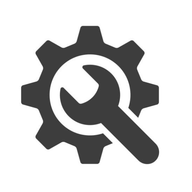
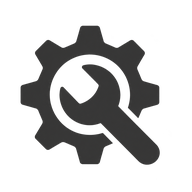
Add files via upload

diff --git a/app-views.js b/app-views.js
@@ -130,7 +130,7 @@ function dashboardView(){
  const ranges=[['30','30 dni'],['90','90 dni'],['all','Cały okres']];
  return `<div class="heading dashboard-heading"><div><h1>Dashboard</h1><p>${from?'Zgłoszenia utworzone od '+dateOnly(from+'T12:00:00'):'Podsumowanie wszystkich zgłoszeń'}</p></div><div class="dashboard-range" role="group" aria-label="Okres podsumowania">${ranges.map(([key,label])=>`<button type="button" class="${dashboardRange===key?'active':''}" data-action="dashboard-range" data-range="${key}" aria-pressed="${dashboardRange===key}">${label}</button>`).join('')}</div></div>`+
   `<section class="dashboard-section dashboard-overview" aria-label="Podsumowanie zgłoszeń">${statsView(tickets)}<div class="dashboard-insight"><div><span>Średni czas realizacji</span><strong>${m.meanHours===null?'—':m.meanHours.toLocaleString('pl-PL',{maximumFractionDigits:1})+' h'}</strong><small>${m.completed} zamkniętych · bez odrzuconych</small></div><button type="button" data-action="dashboard-waiting" aria-label="Pokaż ${m.waiting} zgłoszeń bez pierwszej reakcji"><span>Bez pierwszej reakcji</span><strong>${m.waiting}</strong><small>Ponad ${state.settings.responseHours} h od zgłoszenia w wybranym okresie →</small></button></div></section>`+
-  `<section class="dashboard-section"><div class="dashboard-section-head"><div><h2>Rozkład zgłoszeń</h2><p>Według daty utworzenia w wybranym okresie.</p></div></div><div class="chart-grid"><section class="panel"><div class="block-heading"><h3>Miasta</h3></div>${bars(tickets,'city')}</section><section class="panel"><div class="block-heading"><h3>Rodzaje usterek</h3></div>${bars(tickets,'category')}</section><section class="panel full"><div class="block-heading"><h3>Lokale i magazyny</h3></div>${bars(tickets,'location')}</section></div></section>`;
+  `<section class="dashboard-section"><div class="dashboard-section-head"><div><h2>Rozkład zgłoszeń</h2><p>Według daty utworzenia w wybranym okresie.</p></div></div><div class="chart-grid"><section class="panel"><div class="block-heading"><h3>Miasta</h3></div>${bars(tickets,'city')}</section><section class="panel"><div class="block-heading"><h3>Lokale i magazyny</h3></div>${bars(tickets,'location')}</section></div></section>`;
 }
 function adminView(){if(!isAdmin())return empty('Widok niedostępny','Wybierz profil administratora w przełączniku testowym.');
  const tabs=[['users','Użytkownicy i role'],['locations','Lokale i magazyny'],['reports','Raporty i kopia danych'],['settings','Konfiguracja']];

diff --git a/index.html b/index.html
@@ -14,9 +14,9 @@
     <meta name="apple-mobile-web-app-title" content="Serwis Lokali">
 
     <title>Serwis Lokali · Zgłoszenia usterek</title>
-    <link rel="manifest" href="./manifest.json?v=21">
-    <link rel="icon" type="image/png" href="./icon-192.png?v=6">
-    <link rel="apple-touch-icon" href="./icon-192.png?v=6">
+    <link rel="manifest" href="./manifest.json?v=22">
+    <link rel="icon" type="image/png" href="./icon-192.png?v=7">
+    <link rel="apple-touch-icon" href="./icon-192.png?v=7">
     <link rel="stylesheet" href="./styles.css?v=blue-theme1">
     <link rel="stylesheet" href="./fonts/manrope.css?v=1">
     <link rel="stylesheet" href="./ui-polish.css?v=blue-theme1">
@@ -25,14 +25,14 @@
     <link rel="stylesheet" href="./ui-schedule.css?v=blue-theme1">
     <link rel="stylesheet" href="./ui-responsive.css?v=blue-theme1">
     <link rel="stylesheet" href="./ui-login.css?v=desktop-polish2">
-    <link rel="stylesheet" href="./ui-theme.css?v=home-priority1">
+    <link rel="stylesheet" href="./ui-theme.css?v=transparent-icon1">
   </head>
 
   <body>
     <aside class="sidebar">
       <div class="brand">
         <span class="brand-mark" aria-hidden="true">
-          <img src="./icon-192.png?v=6" width="32" height="32" alt="">
+          <img src="./icon-192.png?v=7" width="32" height="32" alt="">
         </span>
         <div>Serwis Lokali<small>Zgłoszenia usterek</small></div>
       </div>
@@ -95,7 +95,7 @@
     <script src="./app-config.js?v=1"></script>
     <script src="./model.js?v=segments1"></script>
     <script src="./app-core.js?v=segments3"></script>
-    <script src="./app-views.js?v=segments3"></script>
+    <script src="./app-views.js?v=dashboard-no-category1"></script>
     <script src="./app-actions.js?v=segments1"></script>
     <script src="./app-events.js?v=segments2"></script>
     <script src="./app-data.js?v=22"></script>

diff --git a/ui-theme.css b/ui-theme.css
@@ -51,6 +51,9 @@ input[type=checkbox],input[type=radio] { accent-color:var(--accent-dark) }
   .tickets-table thead th:nth-child(3),
   .tickets-table tbody td[data-label="Usterka"],
   .tickets-table tbody td[data-label="Usterka"] .cell-main { text-align:center; }
+  .recent-panel.space-top .tickets-table td[data-label="Usterka"],
+  .recent-panel.space-top .tickets-table td[data-label="Usterka"] .cell-main,
+  .recent-panel.space-top .tickets-table td[data-label="Usterka"]::before { text-align:center; }
 }
 /* Home cards: keep priority alongside the other ticket fields when there is room. */
 @media(min-width:1001px) {
@@ -134,3 +137,13 @@ input[type=checkbox],input[type=radio] { accent-color:var(--accent-dark) }
   .toast-container { left:50%;right:auto;max-width:calc(100% - 24px);transform:translateX(-50%); }
 }
 
+
+/* Ikona na pasku bocznym bez białego kafelka. */
+.sidebar .brand-mark {
+  background:transparent;
+  border-color:transparent;
+  box-shadow:none;
+}
+.sidebar .brand-mark img {
+  filter:brightness(0) invert(1);
+}

diff --git a/README.md b/README.md
@@ -25,3 +25,9 @@ Poprawka tabeli zgłoszeń: nagłówek i wartości kolumny „Rodzaj usterki” 
 Poprawka strony głównej: w szerokich kartach zgłoszeń priorytet jest osobną kolumną w tym samym rzędzie co pozostałe dane i przyciski. Przy mniejszej szerokości pozostaje układ responsywny.
 
 Ikona aplikacji pochodzi bezpośrednio z załącznika użytkowniczki: ciemne koło zębate z kluczem na białym tle. Zachowano rysunek i przygotowano kwadratowe pliki PNG 192 i 512 px dla menu, karty przeglądarki i aplikacji instalowanej.
+
+Dashboard: usunięto wykres „Rodzaje usterek”. Pozostałe wykresy „Miasta” i „Lokale i magazyny” zajmują obie kolumny na komputerze, a na telefonie układają się jeden pod drugim.
+
+W sekcji „Starsze otwarte zgłoszenia” etykieta „Usterka” i treść kolumny są wyśrodkowane w widoku komputerowym.
+
+Ikona aplikacji ma przezroczyste tło; w ciemnym pasku bocznym jej znak wyświetla się na biało.
